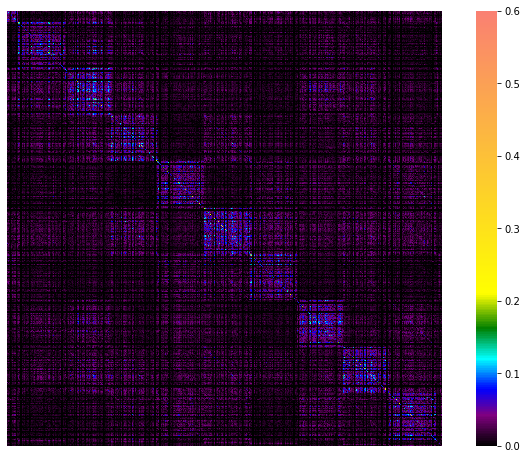
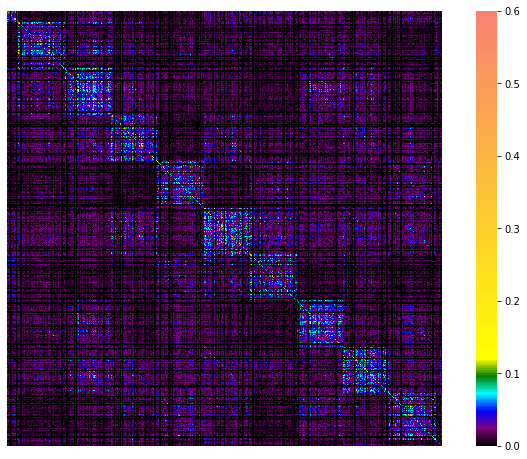
building wheels twice

diff --git a/utils/bw_to_heatmap.py b/utils/bw_to_heatmap.py
@@ -7,17 +7,21 @@ import seaborn as sns
 from matplotlib.colors import LinearSegmentedColormap
 
 result_path = '/root/Documents/BNN_KFAC/results/Hessian/images/'
-img_name = 'H_750_dense.png'
+img_name = 'H_inv_15k_dense_foot.png'
 file_path = result_path + img_name
 
-cmap = LinearSegmentedColormap.from_list('', [(0,'k'),(0.1,'purple'),(0.2,'b'),(0.3,'cyan'),(0.4,'g'),(0.5,'yellow'),(1,'salmon')])
+a = 0.04
+# cmap = LinearSegmentedColormap.from_list('', [(0,'k'),(0.05,'purple'),(0.10,'b'),(0.15,'cyan'),(0.20,'g'),(0.25,'yellow'),(1,'salmon')])
+cmap = LinearSegmentedColormap.from_list('', [(0,'k'),(a,'purple'),(2*a,'b'),(3*a,'cyan'),(4*a,'g'),(5*a,'yellow'),(1,'salmon')])
+
 im = imageio.imread(file_path)
 i = torch.FloatTensor(im) / 255
 print(i.max())
 plt.figure(figsize = (12,8))
 
 # plot = sns.heatmap(i[:,:,0], xticklabels=False, yticklabels=False, square=True, cbar=False)
-plot = sns.heatmap(i[:,:,0], vmin=0, vmax=1, xticklabels=False, yticklabels=False, square=True, cbar=0, cmap=cmap)
+plot = sns.heatmap(i[:,:,0], vmin=0, vmax=0.6, xticklabels=False,\
+     yticklabels=False, square=True, cbar=1, cmap=cmap)
 
 # plot.figure.savefig(result_path + 'heatmap/' + img_name)
 # plt.savefig(result_path + 'heatmap/' + img_name)
@@ -26,3 +30,10 @@ print(result_path + 'heatmap/' + img_name)
 # /root/Documents/BNN_KFAC/results/Hessian/images
 # sns.heatmap(i[:,:,0], vmin=0, vmax=0.6, xticklabels=False, yticklabels=False)
 # plt.savefig('/root/Documents/BNN_KFAC/results/Hessian/images/heatmaps/' + 'error_15k_foot.png')
+
+# H_15k_foot
+# H_750_dense
+# error_750
+# error_15k_foot
+# H_inv_750_dense
+# H_inv_15k_dense_foot
